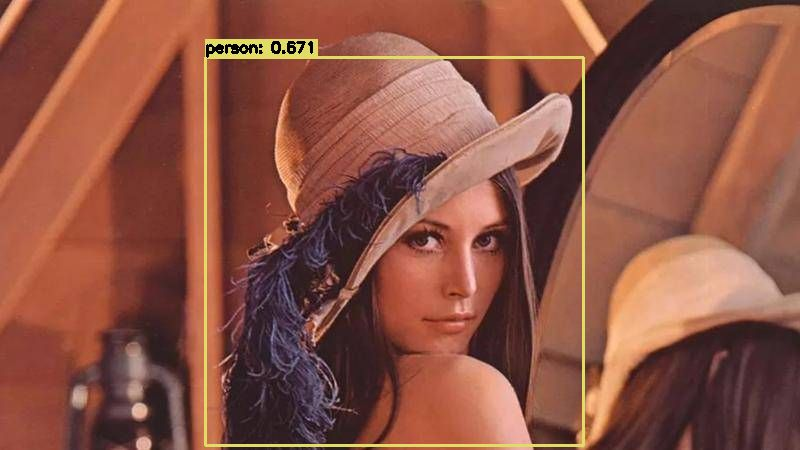
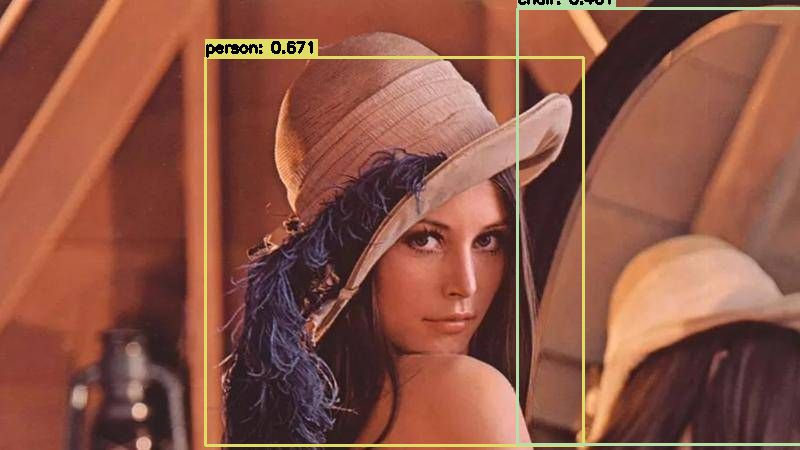
OpenCV NMS bug fix
OpenCV 非极大值抑制

Changed region(s): [[0.625, 0.0, 1.0, 0.9956]]

diff --git a/Object_Detection/Yolo_Object_Detection_Experience_Version/code.py b/Object_Detection/Yolo_Object_Detection_Experience_Version/code.py
@@ -5,13 +5,30 @@ import numpy as np
 import os
 import time
 
+
+def NMSBoxes_fix(boxes, confidences, confidence_thre, nms_thre, class_id):
+    class_id_set = set(class_id)  #  总共有几类
+    result = []  #  用来存储结果的
+    for cls in class_id_set:  # 遍历每个类别
+        cls_boxes = []  # 用来保存每个类别的  边框
+        cls_confidences = []  # 用来保存每个类别边框的分数
+        indices = [i for i, c in enumerate(class_id) if c == cls] # 某一类在原始输入的所有索引
+        for i in indices:
+            cls_boxes.append(boxes[i])  # 把属于该类的框框和分数找出来
+            cls_confidences.append(confidences[i]) 
+        idxs = cv2.dnn.NMSBoxes(cls_boxes, cls_confidences, confidence_thre, nms_thre)  # 对每类进行 NMS 操作
+        for i in idxs:  #  找出原始输入的索引，并把经过 NMS 操作后保留下来的框框的索引保存下来到一个列表中
+            result.append([indices[i[0]]])  #  
+    return np.array(result)  #  opencv 原始的 NMS 输出是一个 np.array 的数据，所以我们也将其转化成指定格式
+
+
 def yolo_detect(pathIn='',
                 pathOut=None,
                 label_path='./cfg/coco.names',
                 config_path='./cfg/yolov3_coco.cfg',
                 weights_path='./cfg/yolov3_coco.weights',
                 confidence_thre=0.5,
-                nms_thre=0.3,
+                nms_thre=0.20,
                 jpg_quality=80):
 
     '''
@@ -35,7 +52,9 @@ def yolo_detect(pathIn='',
     
     # 载入图片并获取其维度
     base_path = os.path.basename(pathIn)
+    print(base_path)
     img = cv2.imread(pathIn)
+    img_copy = img.copy()
     (H, W) = img.shape[:2]
     
     # 加载模型配置和权重文件
@@ -87,10 +106,19 @@ def yolo_detect(pathIn='',
     			boxes.append([x, y, int(width), int(height)])
     			confidences.append(float(confidence))
     			classIDs.append(classID)
+    			print(LABELS[classID]+"area",width*height)
+    			cv2.rectangle(img_copy, (x, y), (x+width, y+height), (0, 0, 255), 2, 8, 0)
+    			cv2.putText(img_copy, LABELS[classID], (x, y), cv2.FONT_HERSHEY_SIMPLEX, 1.0, (255, 255, 0), 2)
+    print("boxes", boxes)
+    print("confidences", confidences)
+    print("classIDs", classIDs)
     
+    # 自己修正过的 非极大值抑制方法
+    #idxs = NMSBoxes_fix(boxes, confidences, confidence_thre, nms_thre, classIDs)
     # 使用非极大值抑制方法抑制弱、重叠边界框
     idxs = cv2.dnn.NMSBoxes(boxes, confidences, confidence_thre, nms_thre)
-    
+    print(type(idxs))
+
     # 确保至少一个边界框
     if len(idxs) > 0:
     	# 迭代每个边界框
@@ -105,6 +133,8 @@ def yolo_detect(pathIn='',
             print("LABELS:", LABELS[classIDs[i]])
             text = '{}: {:.3f}'.format(LABELS[classIDs[i]], confidences[i])
             (text_w, text_h), baseline = cv2.getTextSize(text, cv2.FONT_HERSHEY_SIMPLEX, 0.5, 2)
+            
+            # 绘制分数大于阈值的所有框
             cv2.rectangle(img, (x, y-text_h-baseline), (x + text_w, y), color, -1)
             cv2.putText(img, text, (x, y-5), cv2.FONT_HERSHEY_SIMPLEX, 0.5, (0, 0, 0), 2)
     
@@ -113,13 +143,13 @@ def yolo_detect(pathIn='',
         cv2.imwrite('with_box_'+base_path, img, [int(cv2.IMWRITE_JPEG_QUALITY), jpg_quality])
     else:
         cv2.imwrite(pathOut, img, [int(cv2.IMWRITE_JPEG_QUALITY), jpg_quality])
-        
+        cv2.imwrite("NOT_NMS.jpg", img_copy)
 
 ## 测试
 src = './test_imgs/'
 dst = './result_imgs/'
 img_list = os.listdir(src)
-for img in img_list:
+for img in img_list[-1:]:
     pathIn = src + img
     pathOut = dst + img
     yolo_detect(pathIn, pathOut)

diff --git a/Object_Detection/Yolo_Object_Detection_Experience_Version/opencv_130.py b/Object_Detection/Yolo_Object_Detection_Experience_Version/opencv_130.py
@@ -1,0 +1,86 @@
+import cv2 as cv
+import numpy as np
+
+model_bin = "./cfg/yolov3_coco.weights";
+config_text = "./cfg/yolov3_coco.cfg";
+
+# Load names of classes
+classes = None
+with open('./cfg/coco.names', 'rt') as f:
+    classes = f.read().rstrip('\n').split('\n')
+print("classes names", classes)
+print()
+# load tensorflow model
+net = cv.dnn.readNetFromDarknet(config_text, model_bin)
+image = cv.imread(r"./test_imgs/cat.jpg")
+image_copy = image.copy()
+
+h = image.shape[0]
+w = image.shape[1]
+
+# 获得所有层名称与索引
+layerNames = net.getLayerNames()
+lastLayerId = net.getLayerId(layerNames[-1])
+lastLayer = net.getLayer(lastLayerId)
+print(lastLayer.type)
+print()
+
+# 基于多个Region层输出getUnconnectedOutLayersNames
+blobImage = cv.dnn.blobFromImage(image, 1.0/255.0, (416, 416), None, True, False);
+outNames = net.getUnconnectedOutLayersNames()
+net.setInput(blobImage)
+outs = net.forward(outNames)
+
+# Put efficiency information.
+t, _ = net.getPerfProfile()
+label = 'Inference time: %.2f ms' % (t * 1000.0 / cv.getTickFrequency())
+cv.putText(image, label, (0, 15), cv.FONT_HERSHEY_SIMPLEX, 0.5, (0, 255, 0))
+
+print(outs)
+print()
+print(outs[0].shape)
+
+# 绘制检测矩形
+classIds = []
+confidences = []
+boxes = []
+for out in outs:
+    for detection in out:
+        scores = detection[5:]  #  总共有 80 个类，该值得到的是每个类的分数
+        classId = np.argmax(scores)  #  分数最高的那个序号
+        confidence = scores[classId]  #  预测的分数
+        # numbers are [center_x, center_y, width, height]
+        if confidence > 0.5:
+            center_x = int(detection[0] * w)
+            center_y = int(detection[1] * h)
+            width = int(detection[2] * w)
+            height = int(detection[3] * h)
+            left = int(center_x - width / 2)
+            top = int(center_y - height / 2)
+            classIds.append(classId)
+            confidences.append(float(confidence))
+            boxes.append([left, top, width, height])
+            #  绘制所有分数大于阈值的框
+            cv.rectangle(image_copy, (left, top), (left+width, top+height), (0, 0, 255), 2, 8, 0)
+            cv.putText(image_copy, classes[classId], (left, top), cv.FONT_HERSHEY_SIMPLEX, 1.0, (255, 255, 0), 2)
+
+# cv.dnn.NMSBoxes(bboxes, scores, score_threshold, nms_threshold[, eta[, top_k]])
+"""
+"""
+# 非极大值抑制
+indices = cv.dnn.NMSBoxes(boxes, confidences, score_threshold=0.5, nms_threshold=0.4)
+print(indices)
+for i in indices:
+    i = i[0]
+    box = boxes[i]
+    left = box[0]
+    top = box[1]
+    width = box[2]
+    height = box[3]
+    cv.rectangle(image, (left, top), (left+width, top+height), (0, 0, 255), 2, 8, 0)
+    cv.putText(image, classes[classIds[i]], (left, top), cv.FONT_HERSHEY_SIMPLEX, 1.0, (255, 255, 0), 2)
+
+cv.imwrite('YOLOv3-Detection-Demo_NMS.jpg', image)
+cv.imwrite('YOLOv3-Detection-Demo.jpg', image_copy)
+cv.waitKey(0)
+cv.destroyAllWindows()

diff --git a/Object_Detection/Yolo_Object_Detection_Experience_Version/OpenCV非极大值抑制bug_wechat.md b/Object_Detection/Yolo_Object_Detection_Experience_Version/OpenCV非极大值抑制bug_wechat.md
@@ -1,0 +1,107 @@
+我们上次分享过 YOLO 实现目标检测，但是，当笔者今天再测试时发现里面竟然存在一个有趣的 BUG
+
+但我重新运行目标检测的程序时，测试了以下这只可爱的猫咪：
+
+![](https://tvax2.sinaimg.cn/large/acbcfa39gy1g864rs2t4yj20i80hv1a1.jpg)
+
+此时我就在想，目标检测不是要经过一步 NMS（非极大值抑制）吗，才能得到最后的输出框，那么我可不可以在还没有经过 NMS 时，把所有的锚框都绘制出来呢，那就动手吧
+
+![](https://tva3.sinaimg.cn/large/acbcfa39gy1g864sbk3noj20hu0he7l8.jpg)
+
+![](https://tvax1.sinaimg.cn/large/acbcfa39gy1g864smsiovj20f40geglw.jpg)
+
+###### BUG 分析
+
+WHAT，怎么还有个 bed （上图左上角那个蓝色框框）给画出来，但是预测的时候却没有呢，于是我又回顾了一遍 **非极大值抑制（NMS）算法**：从输出结果中提取最有可能的对象和其对应的边界框。流程如下：
+
+- 1.设置一个 Score 的阈值，一个 IOU 的阈值（overlap）；
+
+- 2.对于**每类**对象，遍历属于该类的所有候选框，
+
+  ① 过滤掉 Score 低于 Score 阈值的候选框；
+
+  ② 找到剩下的候选框中最大 Score 对应的候选框，添加到输出列表；
+
+  ③ 进一步计算剩下的候选框与 ② 中输出列表中每个候选框的 IOU，若该 IOU 大于设置的 IOU 阈值，将该候选框过滤掉（大于一定阈值，代表重叠度比较高），否则加入输出列表中；
+
+  ④ 最后输出列表中的候选框即为图片中该类对象预测的所有边界框
+
+- 3.返回步骤 2 继续处理下一类对象。
+
+看着没毛病是吧，那我们就看看 OpenCV 的非极大值抑制是怎么实现的吧
+
+```python
+indices	=	cv.dnn.NMSBoxes(bboxes, scores, score_threshold, nms_threshold[, eta[, top_k]])
+# bboxes，scores 分别是经过 YOLO 检测后，得到所有候选框及其分数
+# score_threshold 是我们设定的要选定的候选框的分数值
+# nms_threshold 是我们设定的 NMS 的参数，也就是两个边界框的 IoU 
+```
+
+咦！不是说对每类的对象执行非极大值抑制操作吗，怎么没有各个类别的参数输入？？？
+
+难道是 OpenCV 的 BUG（/兴奋脸）？还是另有所用？
+
+既然遇见了这个问题，那么，我们就把这个 BUG 给填上呗！
+
+先上代码
+
+```python
+def NMSBoxes_fix(boxes, confidences, confidence_thre, nms_thre, class_id):
+    class_id_set = set(class_id)  #  总共有几类
+    result = []  #  用来存储结果的
+    for cls in class_id_set:  # 遍历每个类别
+        cls_boxes = []  # 用来保存每个类别的  边框
+        cls_confidences = []  # 用来保存每个类别边框的分数
+        indices = [i for i, c in enumerate(class_id) if c == cls] # 某一类在原始输入的所有索引
+        for i in indices:
+            cls_boxes.append(boxes[i])  # 把属于该类的框框和分数找出来
+            cls_confidences.append(confidences[i]) 
+        idxs = cv2.dnn.NMSBoxes(cls_boxes, cls_confidences, confidence_thre, nms_thre)  # 对每类进行 NMS 操作
+        for i in idxs:  #  找出原始输入的索引，并把经过 NMS 操作后保留下来的框框的索引保存下来到一个列表中
+            result.append([indices[i[0]]])  #  
+    return np.array(result)  #  opencv 原始的 NMS 输出是一个 np.array 的数据，所以我们也将其转化成指定格式
+```
+
+其实很简单，我们只要先把每个类别对应的框框找出来，然后对其进行 NMS 操作，最后，将各个类别经过 NMS 操作的结果合并起来输出即可。
+
+写好了代码，我们测试一下我们的结果呗，用一张目标检测的常用测试图进行实验。
+
+首先，我们设置一下我们实验的参数：
+
+- nms_thre= 0.5   overlap 即 IoU 值 
+- confidence_thre = 0.5  边框属于某个类别的分数的阈值
+
+我们分别使用 OpenCV 自带的 NMS 操作和自己写的 MNS 操作进行对比，即：
+
+```python
+# 使用非极大值抑制方法抑制弱、重叠边界框
+idxs = cv2.dnn.NMSBoxes(boxes, confidences, confidence_thre, nms_thre)
+
+# 自己修正过的 非极大值抑制方法
+idxs = NMSBoxes_fix(boxes, confidences, confidence_thre, nms_thre, classIDs)
+```
+
+得到的结果是一样的，因为图中 dog 区域在 bicycle 区域的 IoU 大概是 0.255，我们实验的值是 nms_thre=0.5 自然得到的结果是一样的
+
+![](https://tva3.sinaimg.cn/large/acbcfa39gy1g864tpvh3hj20lc0g040r.jpg)
+
+此时，我们改变实验的参数时：
+
+- **nms_thre= 0.2**   overlap 即 IoU 值 
+- confidence_thre = 0.5  边框属于某个类别的分数的阈值
+
+这时，OpenCV 自带的 NMS 得到的结果如下图，原因是 dog 的分数比较高，在 OpenCV 进行 NMS 操作时（即不考虑类别时），会把分数较高的 dog 保留下来，而分数较低的 bicycle  给滤出掉
+
+而使用我们**自己写的 NMS 操作**（考虑类别时）得到的结果还是同上面一样
+
+![](https://tva4.sinaimg.cn/large/acbcfa39gy1g864t20vt1j20lc0g0taw.jpg)
+
+###### 思考：
+
+- 一张好的测试图片是如此的重要，要是没有那张可爱的猫咪图片，我也发现不了这个问题
+- 现成的框架不一定是正确的，可能也得根据你的需求进行更改
+- 多发现，对每步的处理知根知底
+
+**要有打破沙锅问到底的决心**
+
+完整的程序在 https://github.com/FLyingLSJ/Computer_Vision_Project 上，欢迎 Fork Star。

diff --git a/Object_Detection/Yolo_Object_Detection_Experience_Version/OpenCV非极大值抑制bug.md b/Object_Detection/Yolo_Object_Detection_Experience_Version/OpenCV非极大值抑制bug.md
@@ -1,0 +1,107 @@
+我们上次分享过 YOLO 实现目标检测，但是，当笔者今天再测试时发现里面竟然存在一个有趣的 BUG
+
+但我重新运行目标检测的程序时，测试了以下这只可爱的猫咪：
+
+![1571659683394](image/OpenCV非极大值抑制bug/1571659683394.png)
+
+此时我就在想，目标检测不是要经过一步 NMS（非极大值抑制）吗，才能得到最后的输出框，那么我可不可以在还没有经过 NMS 时，把所有的锚框都绘制出来呢，那就动手吧
+
+![1571659984271](image/OpenCV非极大值抑制bug/1571659984271.png)
+
+<img src="image/OpenCV非极大值抑制bug/AcSCkL-0.jpg" alt="what" style="zoom:50%;" />
+
+###### BUG 分析
+
+WHAT，怎么还有个 bed （上图左上角那个蓝色框框）给画出来，但是预测的时候却没有呢，于是我又回顾了一遍 **非极大值抑制（NMS）算法**：从输出结果中提取最有可能的对象和其对应的边界框。流程如下：
+
+- 1.设置一个 Score 的阈值，一个 IOU 的阈值（overlap）；
+
+- 2.对于**每类**对象，遍历属于该类的所有候选框，
+
+  ① 过滤掉 Score 低于 Score 阈值的候选框；
+
+  ② 找到剩下的候选框中最大 Score 对应的候选框，添加到输出列表；
+
+  ③ 进一步计算剩下的候选框与 ② 中输出列表中每个候选框的 IOU，若该 IOU 大于设置的 IOU 阈值，将该候选框过滤掉（大于一定阈值，代表重叠度比较高），否则加入输出列表中；
+
+  ④ 最后输出列表中的候选框即为图片中该类对象预测的所有边界框
+
+- 3.返回步骤 2 继续处理下一类对象。
+
+看着没毛病是吧，那我们就看看 OpenCV 的非极大值抑制是怎么实现的吧
+
+```python
+indices	=	cv.dnn.NMSBoxes(bboxes, scores, score_threshold, nms_threshold[, eta[, top_k]])
+# bboxes，scores 分别是经过 YOLO 检测后，得到所有候选框及其分数
+# score_threshold 是我们设定的要选定的候选框的分数值
+# nms_threshold 是我们设定的 NMS 的参数，也就是两个边界框的 IoU 
+```
+
+咦！不是说对每类的对象执行非极大值抑制操作吗，怎么没有各个类别的参数输入？？？
+
+难道是 OpenCV 的 BUG（/兴奋脸）？还是另有所用？
+
+既然遇见了这个问题，那么，我们就把这个 BUG 给填上呗！
+
+先上代码
+
+```python
+def NMSBoxes_fix(boxes, confidences, confidence_thre, nms_thre, class_id):
+    class_id_set = set(class_id)  #  总共有几类
+    result = []  #  用来存储结果的
+    for cls in class_id_set:  # 遍历每个类别
+        cls_boxes = []  # 用来保存每个类别的  边框
+        cls_confidences = []  # 用来保存每个类别边框的分数
+        indices = [i for i, c in enumerate(class_id) if c == cls] # 某一类在原始输入的所有索引
+        for i in indices:
+            cls_boxes.append(boxes[i])  # 把属于该类的框框和分数找出来
+            cls_confidences.append(confidences[i]) 
+        idxs = cv2.dnn.NMSBoxes(cls_boxes, cls_confidences, confidence_thre, nms_thre)  # 对每类进行 NMS 操作
+        for i in idxs:  #  找出原始输入的索引，并把经过 NMS 操作后保留下来的框框的索引保存下来到一个列表中
+            result.append([indices[i[0]]])  #  
+    return np.array(result)  #  opencv 原始的 NMS 输出是一个 np.array 的数据，所以我们也将其转化成指定格式
+```
+
+其实很简单，我们只要先把每个类别对应的框框找出来，然后对其进行 NMS 操作，最后，将各个类别经过 NMS 操作的结果合并起来输出即可。
+
+写好了代码，我们测试一下我们的结果呗，用一张目标检测的常用测试图进行实验。
+
+首先，我们设置一下我们实验的参数：
+
+- nms_thre= 0.5   overlap 即 IoU 值 
+- confidence_thre = 0.5  边框属于某个类别的分数的阈值
+
+我们分别使用 OpenCV 自带的 NMS 操作和自己写的 MNS 操作进行对比，即：
+
+```python
+# 使用非极大值抑制方法抑制弱、重叠边界框
+idxs = cv2.dnn.NMSBoxes(boxes, confidences, confidence_thre, nms_thre)
+
+# 自己修正过的 非极大值抑制方法
+idxs = NMSBoxes_fix(boxes, confidences, confidence_thre, nms_thre, classIDs)
+```
+
+得到的结果是一样的，因为图中 dog 区域在 bicycle 区域的 IoU 大概是 0.255，我们实验的值是 nms_thre=0.5 自然得到的结果是一样的
+
+![test4](image/OpenCV非极大值抑制bug/test4-1571661722478.jpg)
+
+此时，我们改变实验的参数时：
+
+- **nms_thre= 0.2**   overlap 即 IoU 值 
+- confidence_thre = 0.5  边框属于某个类别的分数的阈值
+
+这时，OpenCV 自带的 NMS 得到的结果如下图，原因是 dog 的分数比较高，在 OpenCV 进行 NMS 操作时（即不考虑类别时），会把分数较高的 dog 保留下来，而分数较低的 bicycle  给滤出掉
+
+而使用我们**自己写的 NMS 操作**（考虑类别时）得到的结果还是同上面一样
+
+![](image/OpenCV非极大值抑制bug/test4.jpg)
+
+###### 思考：
+
+- 一张好的测试图片是如此的重要，要是没有那张可爱的猫咪图片，我也发现不了这个问题
+- 现成的框架不一定是正确的，可能也得根据你的需求进行更改
+- 多发现，对每步的处理知根知底
+
+**要有打破沙锅问到底的决心**
+
+完整的程序在 https://github.com/FLyingLSJ/Computer_Vision_Project 上，欢迎 Fork Star。
